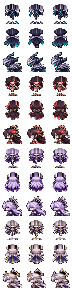
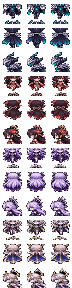
전설 스킨 원본 머리 그대로 사용(가짜 돔 제거) · 옆 무기 손 높이로
- 돔 복원이 가짜 둥근 덩어리로 머리를 이상하게 만들던 것 → 제거하고 원본 머리 그대로 사용
- 셀 상단 여백으로 머리가 경계에 닿지 않게, 방향별 높이는 동일 유지
- 옆모습 무기가 얼굴 높이로 들리던 것 → 손/허리 높이로 내림(옆 hy0 +4, 앞뒤 -3)

Claude-Session: https://claude.ai/code/session_01X4GXs6swjtgSkSe7EQABgB

diff --git a/js/entities/actors.js b/js/entities/actors.js
@@ -200,7 +200,7 @@ class Player extends Entity {
       const ang = this.weaponAngle();
       const reach = this.swing && this.swing.thrust ? Math.sin(Math.PI * this.swing.t / this.swing.dur) * 10 : 0;
       // 손 위치: 어깨(몸 중앙 약간 아래)를 중심으로 도는 궤도, 반동 시 뒤로 밀림 · 전설 스킨은 버스트형이라 손을 몸통 쪽으로 올림
-      const R = 4 + reach - this.recoil * 2.5, hy0 = legAnim ? (legDir === 2 ? 0 : -4) : 2; // 전설: 앞뒤는 몸통(-4), 옆은 손 높이(0)
+      const R = 4 + reach - this.recoil * 2.5, hy0 = legAnim ? (legDir === 2 ? 4 : -3) : 2; // 전설: 앞뒤는 가슴(-3), 옆은 손 높이(아래로)
       const hx = x + Math.cos(ang) * R, hy = y + hy0 + Math.sin(ang) * R * 0.75;
       drawWeapon(ctx, w.def, hx, hy, ang);
     };
